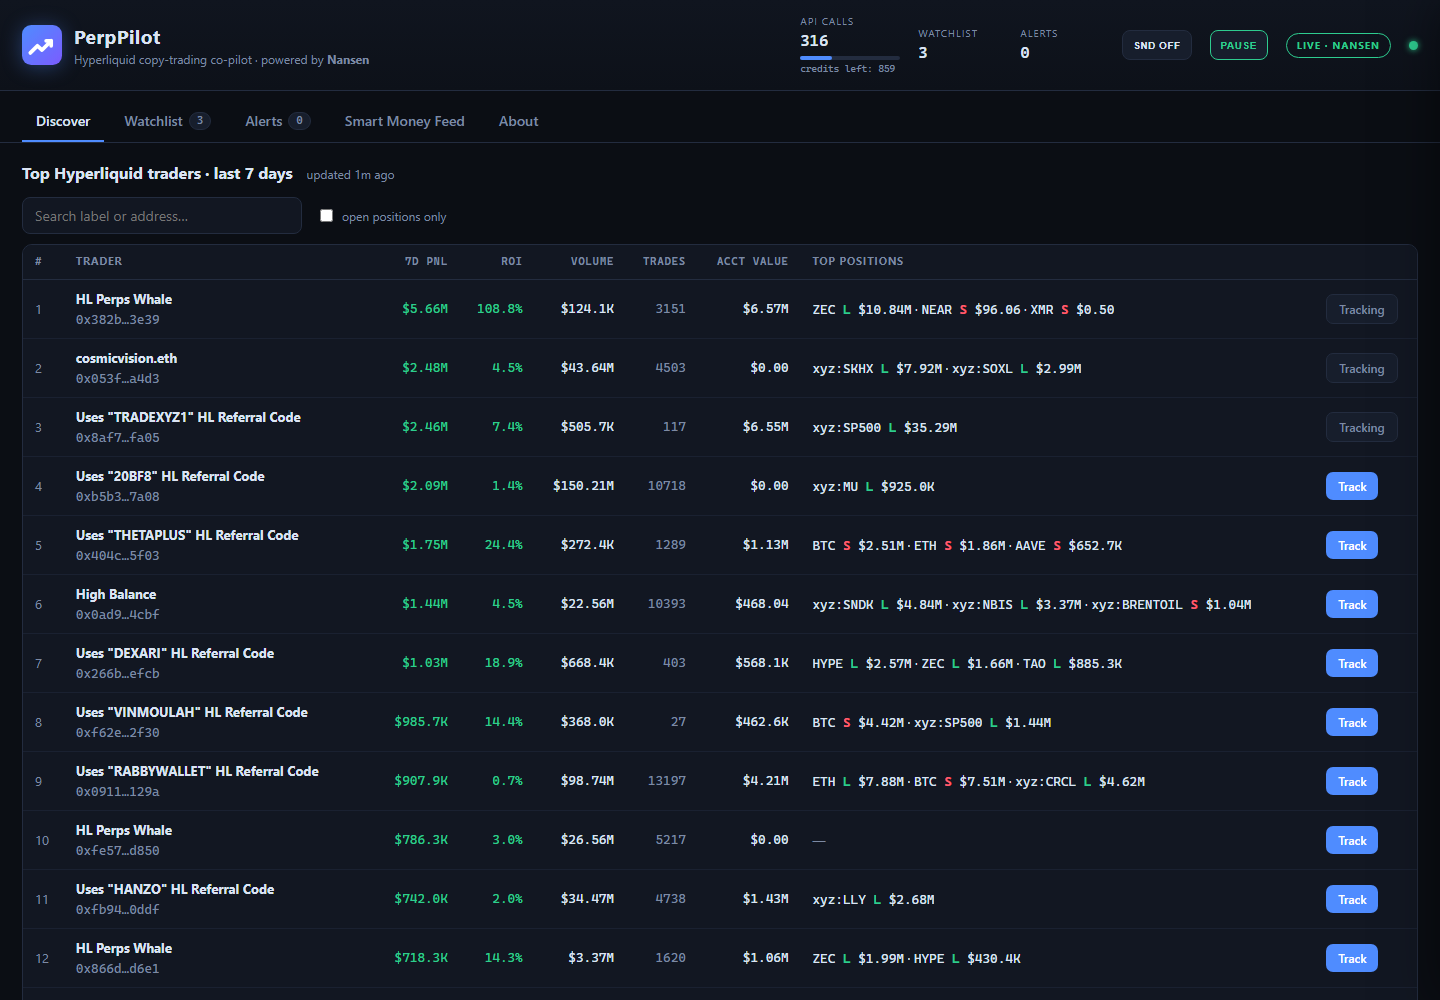
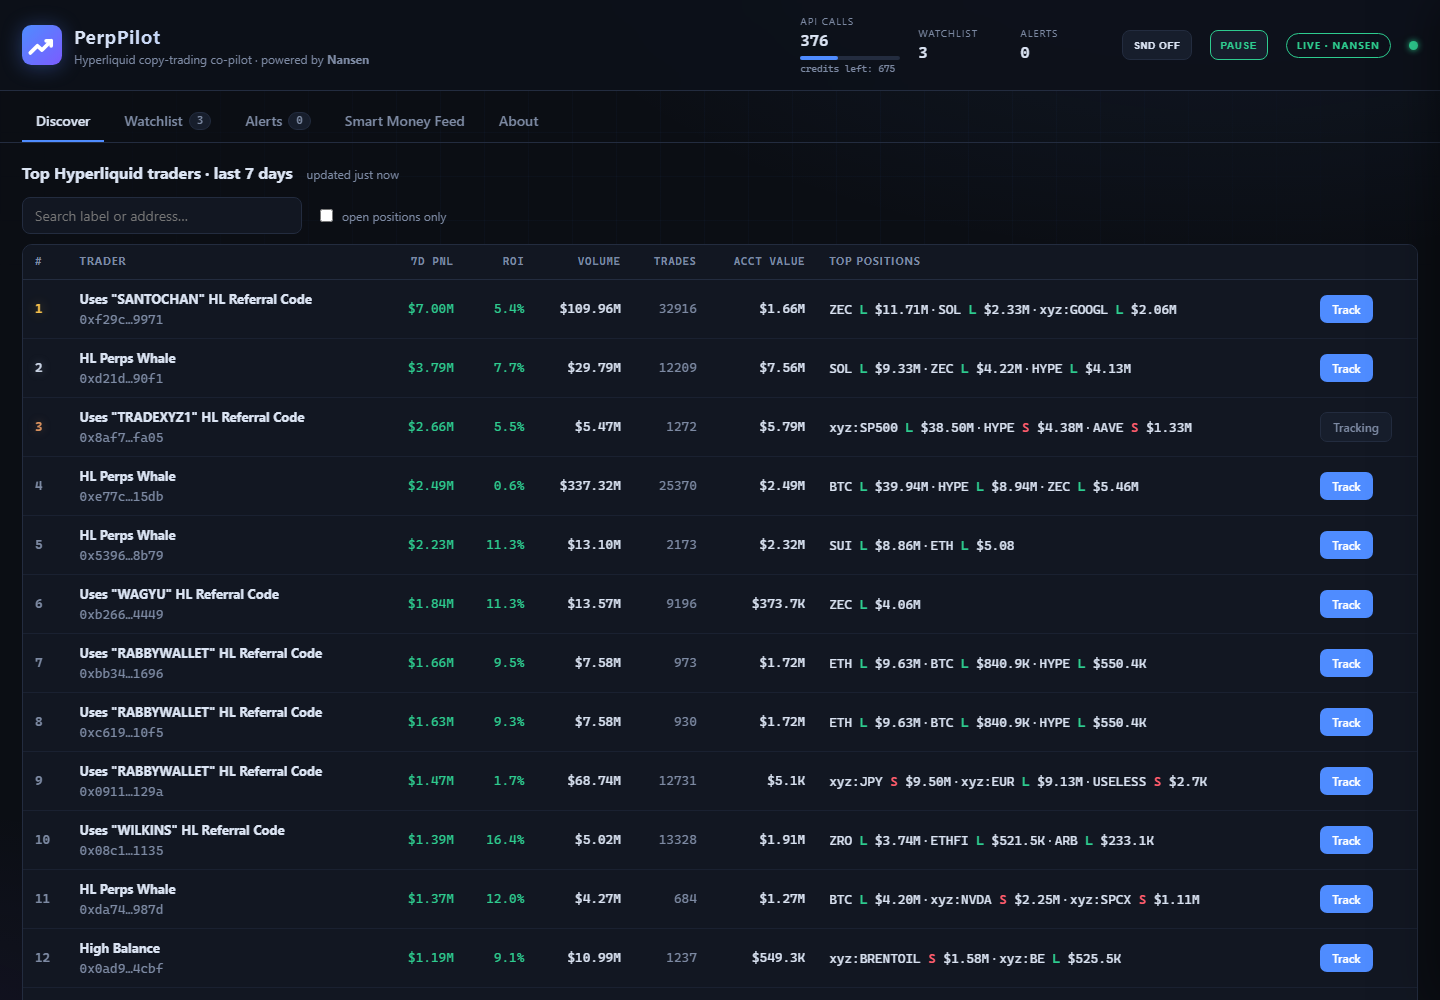
Dashboard polish: glass header, gradient bg, rank badges, value flashes, win/loss donut, copy address, footer

diff --git a/static/app.js b/static/app.js
@@ -10,9 +10,19 @@ const state = {
   lastAlertId: null,
   drawerAddr: null,
   chart: null,
+  donut: null,
   tracked: new Set(),
   paused: false,
+  lbUpdatedAt: null,
 };
+
+const prevVals = {};
+function flashCls(key, val) {
+  const p = prevVals[key];
+  prevVals[key] = val;
+  if (p == null || val == null || p === val) return "";
+  return val > p ? "flash-up" : "flash-down";
+}
 
 function esc(s) {
   return String(s ?? "").replace(/[&<>"']/g, (c) => ({ "&": "&amp;", "<": "&lt;", ">": "&gt;", '"': "&quot;", "'": "&#39;" }[c]));
@@ -116,9 +126,9 @@ function renderLeaderboard() {
         .map((p) => `<span class="mono">${esc(p.coin)} <span class="${sideCls(p.side)}">${p.side === "long" ? "L" : "S"}</span> ${fmtUsd(p.position_value_usd)}</span>`)
         .join(" · ");
       return `<tr>
-        <td class="dim">${i + 1}</td>
+        <td class="rank ${i < 3 ? `r${i + 1}` : "dim"}">${i + 1}</td>
         <td><b>${esc(r.trader_address_label || shortAddr(r.trader_address))}</b><br><span class="mono dim addr">${shortAddr(r.trader_address)}</span></td>
-        <td class="num ${signedClass(r.total_pnl)}">${fmtUsd(r.total_pnl)}</td>
+        <td class="num ${signedClass(r.total_pnl)} ${flashCls("lb:" + r.trader_address, r.total_pnl)}">${fmtUsd(r.total_pnl)}</td>
         <td class="num ${signedClass(r.roi)}">${fmtPct(r.roi)}</td>
         <td class="num">${fmtUsd(r.volume_usd)}</td>
         <td class="num dim">${r.total_trades ?? "—"}</td>
@@ -220,7 +230,7 @@ function renderWatchlist() {
         <div class="card-stats">
           <div class="card-stat"><div class="label">Win rate</div><div class="value">${fmtPct(wr)}</div></div>
           <div class="card-stat"><div class="label">Profit factor</div><div class="value ${pf != null && pf >= 1 ? "pos" : "neg"}">${pf ?? "—"}</div></div>
-          <div class="card-stat"><div class="label">30d closed PnL</div><div class="value ${signedClass(t.total_closed_pnl)}">${fmtUsd(t.total_closed_pnl)}</div></div>
+          <div class="card-stat"><div class="label">30d closed PnL</div><div class="value ${signedClass(t.total_closed_pnl)} ${flashCls("wl:" + t.address, t.total_closed_pnl)}">${fmtUsd(t.total_closed_pnl)}</div></div>
           <div class="card-stat"><div class="label">Open pos</div><div class="value">${t.open_positions} <span class="dim">/ ${fmtUsd(t.total_notional)}</span></div></div>
         </div>
         <div class="card-foot">
@@ -343,6 +353,7 @@ async function openDrawer(addr) {
     $("#d-label").textContent = d.label;
     $("#d-addr").textContent = d.address;
     $("#d-addr").href = `https://hyperdash.info/trader/${d.address}`;
+    $("#d-copy").onclick = () => copyText(d.address);
     const risk = d.risk;
     $("#d-summary").innerHTML = `
       <div class="d-sum"><div class="label">Win rate (30d)</div><div class="value">${fmtPct(d.win_rate)}</div></div>
@@ -363,7 +374,7 @@ async function openDrawer(addr) {
         <td class="num">${p.mark ? p.mark.toLocaleString(undefined, { maximumFractionDigits: 4 }) : "—"}</td>
         <td class="num dim">${p.liq ? p.liq.toLocaleString(undefined, { maximumFractionDigits: 4 }) : "—"}</td>
         <td class="num">${p.leverage}x</td>
-        <td class="num ${signedClass(p.upnl)}">${fmtUsd(p.upnl)}</td>
+        <td class="num ${signedClass(p.upnl)} ${flashCls("pos:" + addr + ":" + p.coin, p.upnl)}">${fmtUsd(p.upnl)}</td>
       </tr>`
       )
       .join("") || `<tr><td colspan="9" class="dim">No open positions</td></tr>`;
@@ -385,10 +396,82 @@ async function openDrawer(addr) {
         )
         .join("") || `<li class="empty">No alerts for this trader yet.</li>`;
     renderChart(d.metrics && d.metrics.equity_curve);
+    renderDonut(d.metrics);
   } catch (e) {
     toast(e.message, "danger");
   }
 }
+
+function copyText(text) {
+  const done = () => toast("Address copied to clipboard", "info");
+  if (navigator.clipboard && navigator.clipboard.writeText) {
+    navigator.clipboard.writeText(text).then(done).catch(() => fallbackCopy(text, done));
+  } else {
+    fallbackCopy(text, done);
+  }
+}
+function fallbackCopy(text, done) {
+  const ta = document.createElement("textarea");
+  ta.value = text;
+  ta.style.position = "fixed";
+  ta.style.opacity = "0";
+  document.body.appendChild(ta);
+  ta.select();
+  try { document.execCommand("copy"); done(); } catch {}
+  ta.remove();
+}
+
+function renderDonut(m) {
+  if (state.donut) {
+    state.donut.destroy();
+    state.donut = null;
+  }
+  const wins = m && m.wins != null ? m.wins : 0;
+  const losses = m && m.losses != null ? m.losses : 0;
+  if (wins + losses === 0) {
+    $("#d-donut-legend").innerHTML = `<span class="muted">No closed trades yet</span>`;
+    return;
+  }
+  state.donut = new Chart($("#d-donut"), {
+    type: "doughnut",
+    data: {
+      labels: ["Wins", "Losses"],
+      datasets: [{ data: [wins, losses], backgroundColor: ["#2ecc8f", "#ff5c6c"], borderWidth: 0 }],
+    },
+    options: {
+      cutout: "68%",
+      plugins: { legend: { display: false }, tooltip: { enabled: true } },
+    },
+  });
+  $("#d-donut-legend").innerHTML = `
+    <span>Wins <b class="pos">${wins}</b></span>
+    <span>Losses <b class="neg">${losses}</b></span>
+    <span class="muted">30d closed trades</span>`;
+}
+
+function closeDrawer() {
+  $("#drawer").classList.remove("open");
+  state.drawerAddr = null;
+  if (state.chart) {
+    state.chart.destroy();
+    state.chart = null;
+  }
+  if (state.donut) {
+    state.donut.destroy();
+    state.donut = null;
+  }
+}
+
+document.addEventListener("keydown", (e) => {
+  if (e.key === "Escape") closeDrawer();
+});
+document.addEventListener("click", (e) => {
+  const drawer = $("#drawer");
+  if (!drawer.classList.contains("open")) return;
+  if (drawer.contains(e.target)) return;
+  if (e.target.closest(".card")) return;
+  closeDrawer();
+});
 
 function renderChart(curve) {
   const ctx = $("#d-chart");
@@ -423,16 +506,12 @@ function renderChart(curve) {
   state.chart = chart;
 }
 
-$("#d-close").addEventListener("click", () => {
-  $("#drawer").classList.remove("open");
-  state.drawerAddr = null;
-});
+$("#d-close").addEventListener("click", closeDrawer);
 $("#d-remove").addEventListener("click", async () => {
   if (!state.drawerAddr) return;
   await api(`/api/watchlist/${state.drawerAddr}`, { method: "DELETE" });
   state.tracked.delete(state.drawerAddr);
-  $("#drawer").classList.remove("open");
-  state.drawerAddr = null;
+  closeDrawer();
   toast("Removed from watchlist", "info");
 });
 
@@ -500,7 +579,8 @@ async function pollAll() {
       api("/api/basket").catch(() => null),
     ]);
     state.leaderboard = lb.data || [];
-    if (lb.updated_at) $("#lb-updated").textContent = `updated ${relTime(lb.updated_at)}`;
+    state.lbUpdatedAt = lb.updated_at || null;
+    if (state.lbUpdatedAt) $("#lb-updated").textContent = `updated ${relTime(state.lbUpdatedAt)}`;
     state.watchlist = wl.data || [];
     state.watchlist.forEach((t) => state.tracked.add(t.address));
     const newAlerts = (al.data || []).filter((a) => a.id !== state.lastAlertId);
@@ -526,3 +606,8 @@ pollHealth();
 pollAll();
 setInterval(pollHealth, 5000);
 setInterval(pollAll, 6000);
+setInterval(() => {
+  if (state.lbUpdatedAt) $("#lb-updated").textContent = `updated ${relTime(state.lbUpdatedAt)}`;
+  if (state.tab === "alerts") renderAlerts();
+  if (state.tab === "watchlist") renderWatchlist();
+}, 30000);

diff --git a/static/style.css b/static/style.css
@@ -14,30 +14,53 @@
 * { box-sizing: border-box; }
 html, body { margin: 0; height: 100%; }
 body {
-  background: var(--bg);
+  background:
+    radial-gradient(1200px 600px at 85% -10%, rgba(79,140,255,.09), transparent 60%),
+    radial-gradient(900px 500px at -10% 110%, rgba(123,92,255,.08), transparent 60%),
+    var(--bg);
   color: var(--text);
   font: 14px/1.5 "Segoe UI", system-ui, sans-serif;
   padding-bottom: 40px;
 }
+body::before {
+  content: ""; position: fixed; inset: 0; z-index: -1; pointer-events: none;
+  background:
+    linear-gradient(rgba(79,140,255,.03) 1px, transparent 1px),
+    linear-gradient(90deg, rgba(79,140,255,.03) 1px, transparent 1px);
+  background-size: 44px 44px;
+  mask-image: radial-gradient(ellipse at 50% 0%, #000 30%, transparent 75%);
+}
 a { color: var(--accent); text-decoration: none; }
-.mono { font-family: var(--mono); }
+.mono { font-family: var(--mono); font-variant-numeric: tabular-nums; }
 .muted { color: var(--muted); font-size: 12px; }
+::-webkit-scrollbar { width: 9px; height: 9px; }
+::-webkit-scrollbar-thumb { background: #232c3f; border-radius: 5px; }
+::-webkit-scrollbar-thumb:hover { background: #2f3a52; }
+::-webkit-scrollbar-track { background: transparent; }
+
+@keyframes flashup { 0% { background: rgba(46,204,143,.25); } 100% { background: transparent; } }
+@keyframes flashdown { 0% { background: rgba(255,92,108,.25); } 100% { background: transparent; } }
+.flash-up { animation: flashup 1.2s ease-out; border-radius: 4px; }
+.flash-down { animation: flashdown 1.2s ease-out; border-radius: 4px; }
+@keyframes fadeup { from { opacity: 0; transform: translateY(6px); } to { opacity: 1; transform: none; } }
+.tab-panel.active { animation: fadeup .25s ease; }
 
 header {
+  position: sticky; top: 0; z-index: 40;
   display: flex; justify-content: space-between; align-items: center;
   padding: 14px 22px; border-bottom: 1px solid var(--border);
-  background: linear-gradient(180deg, #10151f, #0d1119);
+  background: rgba(13,17,25,.78); backdrop-filter: blur(12px);
   flex-wrap: wrap; gap: 12px;
 }
 .brand { display: flex; gap: 12px; align-items: center; }
 .logo { width: 40px; height: 40px; display: grid; place-items: center; filter: drop-shadow(0 2px 10px rgba(79,140,255,.35)); }
 .logo svg { display: block; }
-h1 { margin: 0; font-size: 19px; letter-spacing: .5px; }
+h1 { margin: 0; font-size: 19px; letter-spacing: .5px; background: linear-gradient(90deg, #dbe4f3, #8fb3ff); -webkit-background-clip: text; background-clip: text; -webkit-text-fill-color: transparent; }
 .brand p { margin: 0; font-size: 12px; color: var(--muted); }
 .header-stats { display: flex; align-items: center; gap: 18px; flex-wrap: wrap; }
 .stat { display: flex; flex-direction: column; min-width: 84px; }
 .stat .label { font-size: 10px; text-transform: uppercase; letter-spacing: 1px; color: var(--muted); }
-.stat .value { font-family: var(--mono); font-size: 16px; font-weight: 600; }
+.stat .value { font-family: var(--mono); font-variant-numeric: tabular-nums; font-size: 16px; font-weight: 600; }
 .meter { width: 100px; height: 4px; background: var(--border); border-radius: 2px; margin-top: 3px; }
 .meter div { height: 100%; width: 0%; background: var(--accent); border-radius: 2px; transition: width .4s; }
 .sub { font-size: 9.5px; color: var(--muted); font-family: var(--mono); margin-top: 2px; }
@@ -252,3 +275,21 @@ th.num { text-align: right; }
   color: var(--text); padding: 9px 12px; border-radius: 8px; font: inherit;
 }
 .gate-card .track-btn { width: 100%; padding: 9px; }
+
+td.rank { font-family: var(--mono); font-weight: 700; }
+td.r1 { color: #f5c04c; text-shadow: 0 0 12px rgba(245,192,76,.45); }
+td.r2 { color: #c9d3e4; text-shadow: 0 0 10px rgba(201,211,228,.35); }
+td.r3 { color: #d9925f; text-shadow: 0 0 10px rgba(217,146,95,.35); }
+.card { transition: border-color .15s, transform .15s, box-shadow .15s; }
+.card:hover { border-color: var(--accent); transform: translateY(-2px); box-shadow: 0 10px 30px rgba(79,140,255,.12); }
+#d-copy { margin-left: 8px; font-size: 9.5px; letter-spacing: .5px; width: auto; padding: 0 9px; height: 24px; }
+.d-donut-wrap { display: flex; align-items: center; gap: 10px; margin: 4px 0 8px; }
+#d-donut { width: 92px; height: 92px; }
+.donut-legend { font-size: 12px; display: flex; flex-direction: column; gap: 4px; }
+.donut-legend b { font-family: var(--mono); }
+footer {
+  margin: 26px 22px 0; padding: 14px 18px; border-top: 1px solid var(--border);
+  color: var(--muted); font-size: 12px; display: flex; justify-content: space-between;
+  flex-wrap: wrap; gap: 8px;
+}
+footer a { color: var(--muted); text-decoration: underline; }

diff --git a/static/index.html b/static/index.html
@@ -153,11 +153,18 @@
     <div class="drawer-head">
       <div>
         <h3 id="d-label">—</h3>
-        <a id="d-addr" class="mono muted" href="#" target="_blank" rel="noopener"></a>
+        <div style="display:flex; align-items:center; gap:6px;">
+          <a id="d-addr" class="mono muted" href="#" target="_blank" rel="noopener"></a>
+          <button id="d-copy" class="icon-btn" title="Copy address">COPY</button>
+        </div>
       </div>
       <button id="d-close" class="icon-btn">✕</button>
     </div>
     <div id="d-summary" class="d-summary"></div>
+    <div class="d-donut-wrap">
+      <canvas id="d-donut" width="92" height="92"></canvas>
+      <div class="donut-legend" id="d-donut-legend"></div>
+    </div>
     <canvas id="d-chart" height="90"></canvas>
     <h4>Open positions</h4>
     <div class="table-wrap">
@@ -179,6 +186,11 @@
   </aside>
 
   <div id="toasts"></div>
+
+  <footer>
+    <span>Built for the <b>Nansen Meridian Buildathon</b> · <a href="https://github.com/TheRealNajim/PerpPilot" target="_blank" rel="noopener">source</a></span>
+    <span>Not financial advice · data by <a href="https://nansen.ai" target="_blank" rel="noopener">Nansen</a></span>
+  </footer>
 
   <div id="token-gate">
     <div class="gate-card">
